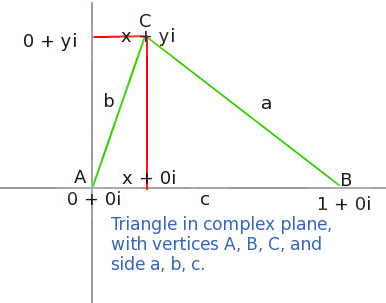
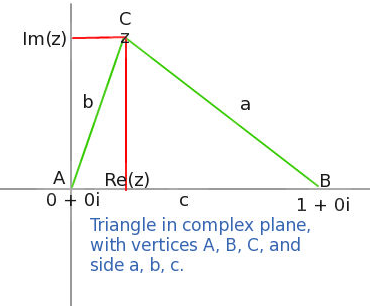
Even better triangle.

Changed region(s): [[0.0, 0.0, 1.0, 1.0], [0.6541, 0.3267, 0.7135, 0.3564]]

diff --git a/bc-triangle-man.m b/bc-triangle-man.m
@@ -1,9 +1,14 @@
-(* An attempt to find all quantities for a given unscaled triangle in free space *)
+(* An attempt to find all quantities for a given unscaled triangle in
+free space *)
 
 (* Given any unscaled triangle in free space, you can resize it,
 reflect it and place it on the complex plane such that two vertices
-are 0 and 1, and the other point is x+yi, where x>=0 y>=0. We
-therefore let x+yi 'define' the triangle in question * )
+are 0 and 1, and the other point is z (where Re(z) and Im(z) are both
+nonnegative. We therefore let z 'define' the triangle in question * )
+
+(* Reference triangle: triangle-in-complex-plane.png *)
+
+(* Sample triangle: 1/6 + 3/5*i, sort of like reference triangle *)
 
 
 
